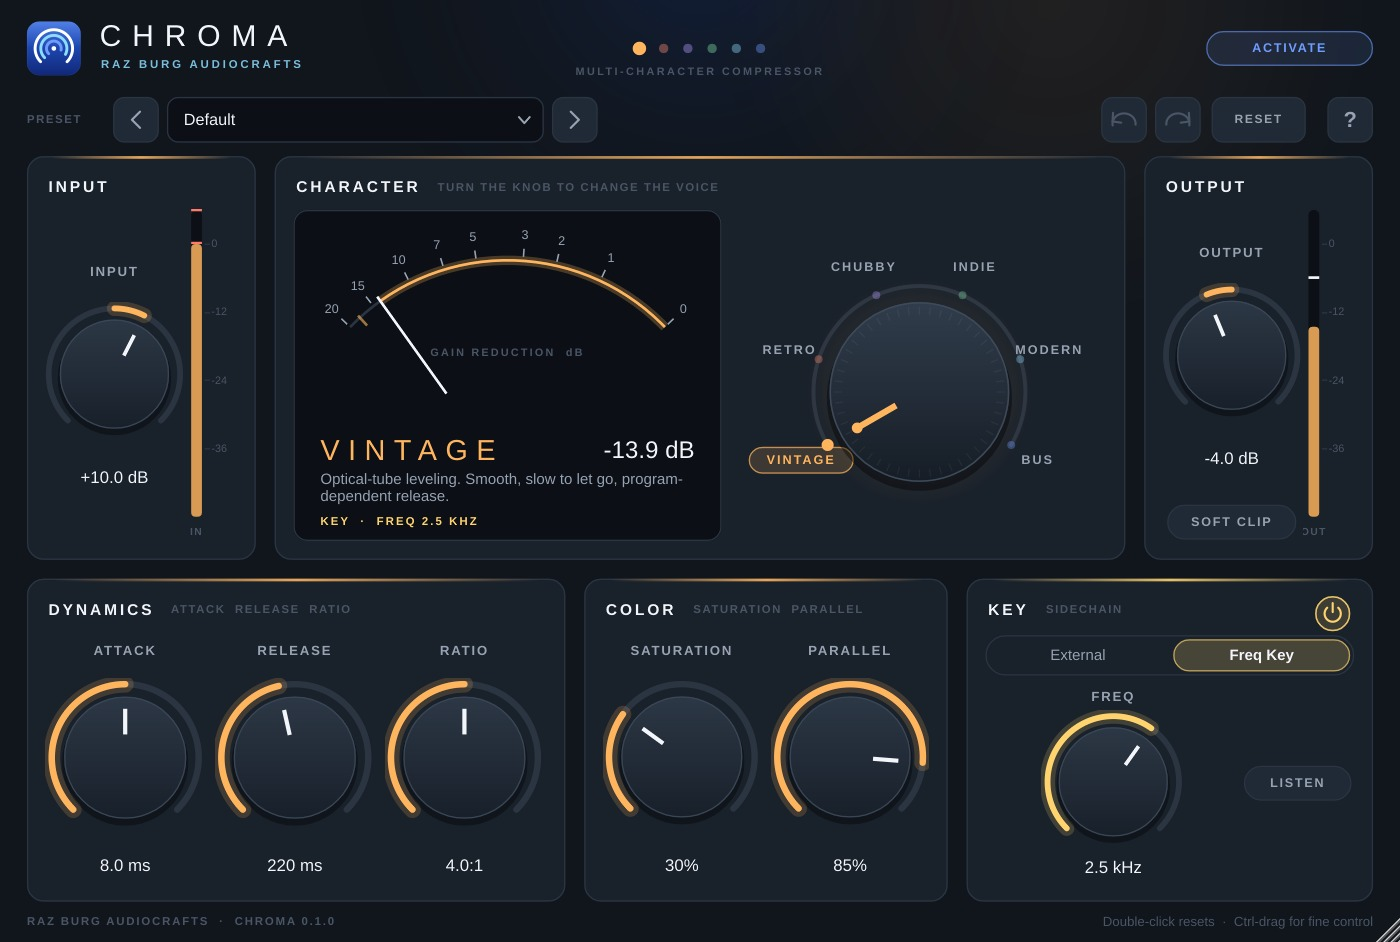
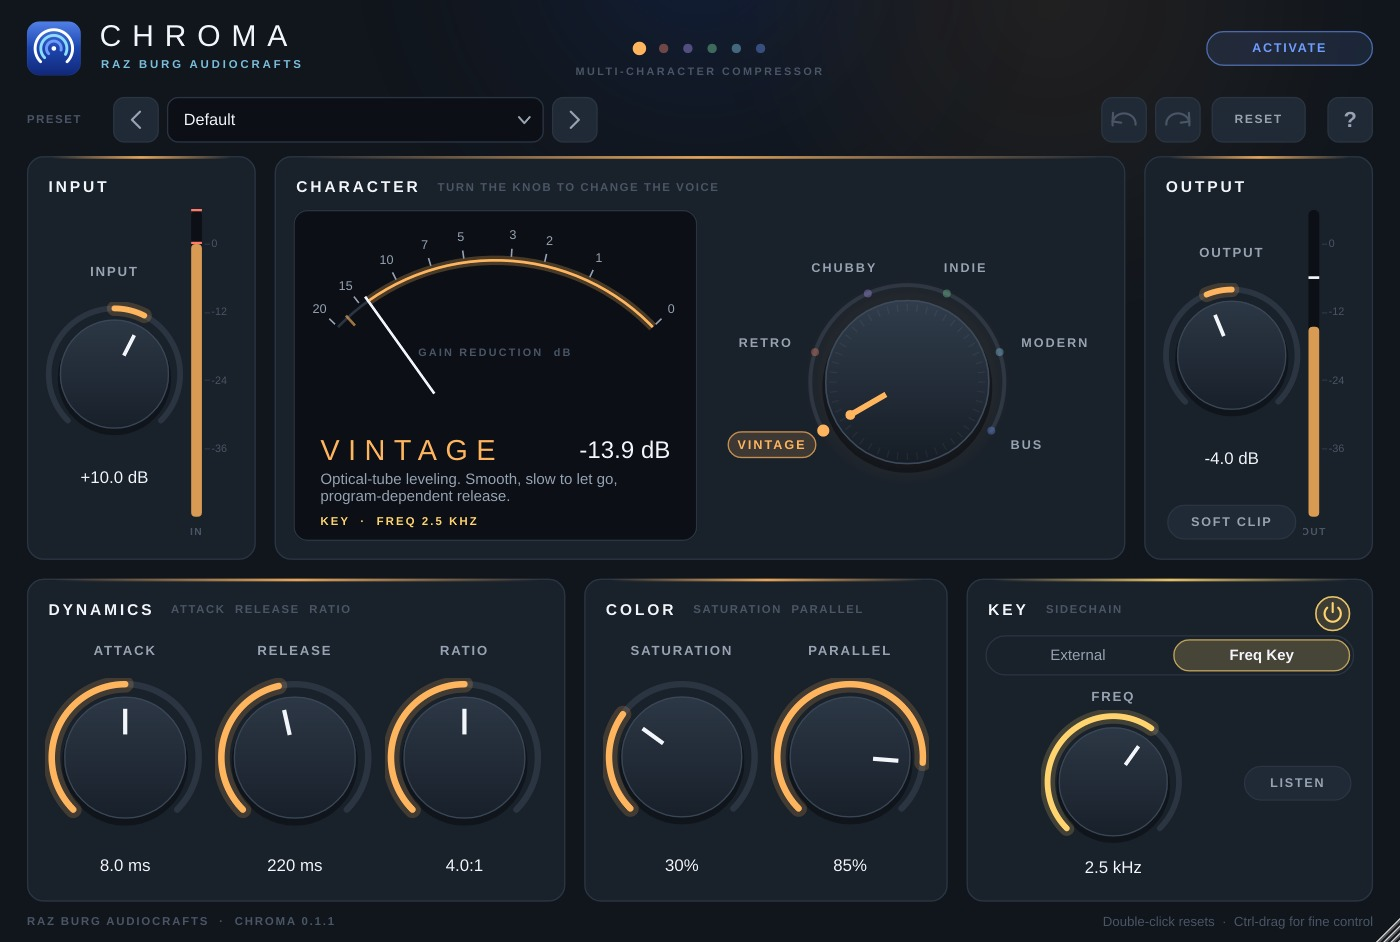
Chroma 0.1.1: refreshed UI screenshot and version (#1)
Claude-Session: https://claude.ai/code/session_01EGCnYamKoiaxsfB3nKTaMY

diff --git a/index.html b/index.html
@@ -125,7 +125,7 @@ footer{border-top:1px solid var(--line);margin-top:40px;padding:30px 0;color:var
 <div class="product">
 <div class="info">
 <div class="pname">Chroma</div>
-<div class="caps ptype">Multi-character compressor <span style="color:var(--faint)">· v0.1</span></div>
+<div class="caps ptype">Multi-character compressor <span style="color:var(--faint)">· v0.1.1</span></div>
 <p>Six compressor characters on one knob. Turn it and the whole voice changes: how it listens, how hard it bends in, how it lets go and how its saturation sounds. It opens with no processing.</p>
 <ul class="feats">
 <li>Vintage: optical-tube leveling with a smooth, program-dependent release</li>
